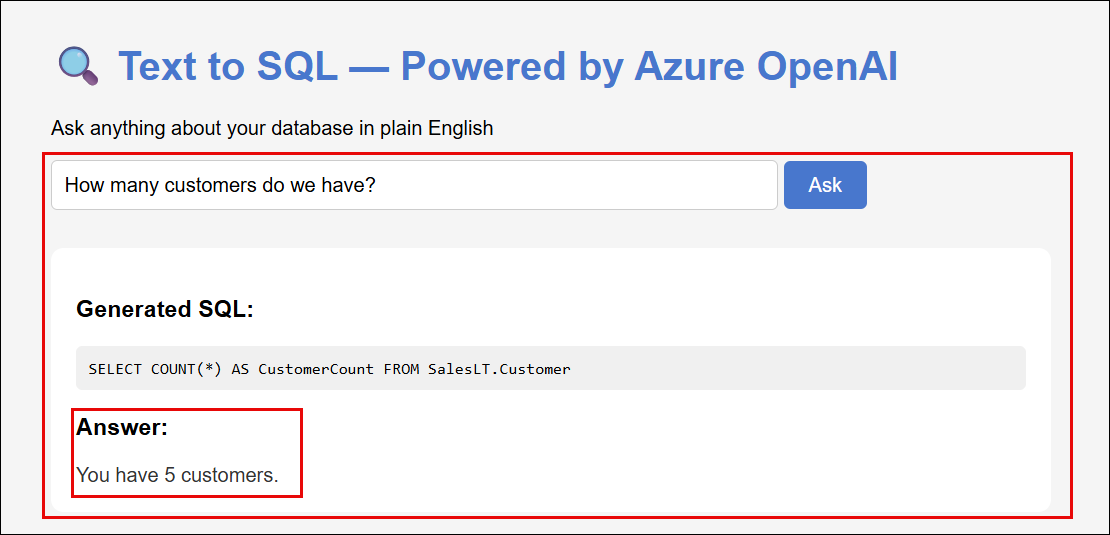
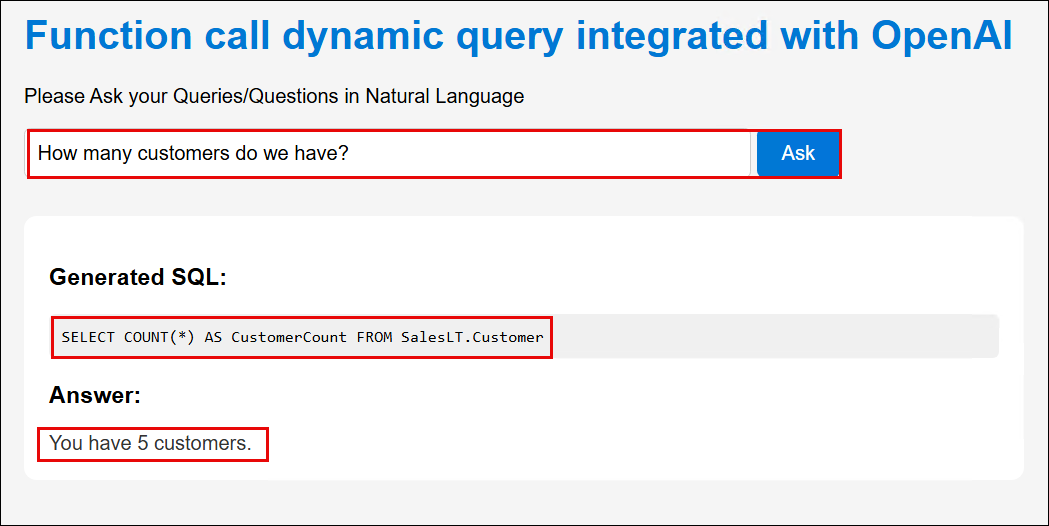
messgae

Changed region(s): [[0.0, 0.0304, 0.9762, 0.9734]]

diff --git a/Lab4.md b/Lab4.md
@@ -24,8 +24,8 @@ Create a dedicated folder on your local machine and save all the application fil
 1. Open **VS Code** on your local machine, then create a new folder from the terminal and navigate into it:
 
    ```
-   C:\Users\YourName\> mkdir textsql-app
-   C:\Users\YourName\> cd textsql-app
+   mkdir textsql-app
+   cd textsql-app
    ```
 
 2. Inside that folder, create the following 3 files using VS Code or Notepad:
@@ -53,11 +53,17 @@ textsql-app/
 ```
 
 ![](./Media/Lab4/image1.png)
+---
+## Task3: Build the Application Code in `main.py`
 
-#### File 1: `main.py`
-
-The core application file. It includes the FastAPI web server, an Azure SQL connection using Managed Identity, the OpenAI integration for generating SQL queries, and the HTML chat interface served to users. Copy and paste the following code into `main.py`:
-
+**1: Import Required Libraries**
+ 
+First, let's import all the necessary Python libraries and modules.
+ 
+1. Open your code editor and create a new file named `main.py`
+ 
+2. Copy and paste the following code into `main.py`:
+ 
 ```python
 import os
 import struct
@@ -68,9 +74,33 @@ from dotenv import load_dotenv
 from fastapi import FastAPI
 from fastapi.responses import HTMLResponse
 from pydantic import BaseModel
-
+ 
 load_dotenv()
-
+```
+![](./Media/Lab4/code1.png)
+ 
+**Explanation:**
+ 
+- **os**: For accessing environment variables
+- **struct**: For packing authentication tokens into binary format
+- **pyodbc**: For connecting to Azure SQL Database
+- **AzureOpenAI**: Client library for Azure OpenAI Service
+- **AzureCliCredential, ManagedIdentityCredential**: For Azure authentication (local development vs Azure deployment)
+- **dotenv**: For loading environment variables from `.env` file
+- **FastAPI**: Web framework for building the API
+- **HTMLResponse**: For serving HTML content
+- **BaseModel**: For request validation
+- **load_dotenv()**: Loads environment variables from `.env` file
+ 
+---
+ 
+**2: Initialize Azure OpenAI Client and Configuration**
+ 
+ Next, set up the Azure OpenAI client and load configuration values.
+ 
+1. Paste this code Below the import section:
+ 
+```python
 # ── OpenAI Client ──────────────────────────────────────────────────
 client = AzureOpenAI(
     api_key=os.getenv("OPENAI_API_KEY"),
@@ -80,20 +110,42 @@ client = AzureOpenAI(
 DEPLOYMENT_NAME = os.getenv("AZURE_OPENAI_CHAT_DEPLOYMENT")
 SQL_SERVER = os.getenv("SQL_SERVER")
 SQL_DATABASE = os.getenv("SQL_DATABASE")
-
+ 
 app = FastAPI()
-
+```
+![](./Media/Lab4/code2.png)
+ 
+**Explanation:**
+ 
+- **client**: Creates an Azure OpenAI client using credentials from environment variables
+  - `api_key`: Your Azure OpenAI API key
+  - `api_version`: The API version to use
+  - `azure_endpoint`: Your Azure OpenAI endpoint URL
+- **DEPLOYMENT_NAME**: The name of your deployed GPT model
+- **SQL_SERVER**: Your Azure SQL Server hostname
+- **SQL_DATABASE**: Your database name
+- **app = FastAPI()**: Initializes the FastAPI application
+ 
+---
+ 
+**3: Create Database Connection Function**
+ 
+This function automatically detects whether the app is running locally or on Azure and uses the appropriate authentication method.
+ 
+1. Add the following code below the configuration section:
+ 
+```python
 # ── Connection: Auto-detect Local vs Azure ─────────────────────────
 def get_sql_connection():
     if os.getenv("WEBSITE_INSTANCE_ID"):  # On Azure → Managed Identity
         credential = ManagedIdentityCredential()
     else:  # Local → Azure CLI login
         credential = AzureCliCredential()
-
+ 
     token = credential.get_token("https://database.windows.net/.default")
     token_bytes = token.token.encode("utf-16-le")
     token_struct = struct.pack(f"<I{len(token_bytes)}s", len(token_bytes), token_bytes)
-
+ 
     conn_str = (
         "Driver={ODBC Driver 18 for SQL Server};"
         f"Server=tcp:{SQL_SERVER},1433;"
@@ -102,7 +154,27 @@ def get_sql_connection():
         "TrustServerCertificate=no;"
     )
     return pyodbc.connect(conn_str, attrs_before={1256: token_struct})
-
+```
+ ![](./Media/Lab4/code3.png)
+**Explanation:**
+ 
+- **Auto-detection**: Checks if `WEBSITE_INSTANCE_ID` exists (Azure App Service sets this)
+  - **Azure deployment**: Uses `ManagedIdentityCredential()` for passwordless authentication
+  - **Local development**: Uses `AzureCliCredential()` (requires `az login`)
+- **Token generation**: Gets an access token for Azure SQL Database
+- **Token encoding**: Converts token to binary format required by ODBC driver
+- **Connection string**: Builds the SQL connection string with encryption enabled
+- **Returns**: Active database connection with token-based authentication
+ 
+---
+ 
+**4: Create SQL Generation Function**
+ 
+This function converts natural language questions into SQL queries using Azure OpenAI.
+ 
+1. Add the following code below the database connection function:
+ 
+```python
 # ── Generate SQL from natural language ────────────────────────────
 def generate_sql(question):
     response = client.chat.completions.create(
@@ -111,12 +183,12 @@ def generate_sql(question):
             {
                 "role": "system",
                 "content": """You are an Azure SQL expert.
-
+ 
 Database Schema:
 - SalesLT.Customer(CustomerID, FirstName, LastName, EmailAddress, Phone, CompanyName)
 - SalesLT.Product(ProductID, Name, ProductNumber, Color, StandardCost, ListPrice, Size, Weight)
 - SalesLT.SalesOrderDetail(SalesOrderID, SalesOrderDetailID, OrderQty, ProductID, UnitPrice, LineTotal)
-
+ 
 Rules:
 - ONLY generate SELECT queries
 - ALWAYS use full table names like SalesLT.Product
@@ -130,7 +202,29 @@ Rules:
     sql = response.choices[0].message.content.strip()
     sql = sql.replace("```sql", "").replace("```", "").strip()
     return sql
-
+```
+![](./Media/Lab4/code4.png)
+ 
+**Explanation:**
+ 
+- **client.chat.completions.create()**: Calls Azure OpenAI to generate SQL
+- **System message**: Provides the AI with:
+  - Database schema (table names and columns)
+  - Rules for generating SQL (Azure SQL syntax, security constraints)
+  - Instructions to return only raw SQL
+- **User message**: Contains the natural language question
+- **Post-processing**: Removes markdown formatting (backticks, code blocks)
+- **Returns**: Clean SQL query ready for execution
+ 
+---
+ 
+**5: Create SQL Execution Function**
+ 
+This function executes the generated SQL query against Azure SQL Database.
+ 
+1. Add the following code below the SQL generation function:
+ 
+```python
 # ── Execute SQL against Azure SQL Database ────────────────────────
 def execute_sql(sql):
     try:
@@ -142,7 +236,27 @@ def execute_sql(sql):
         return [dict(zip(columns, row)) for row in rows]
     except Exception as e:
         return f"SQL Error: {e}"
-
+```
+ ![](./Media/Lab4/code5.png)
+**Explanation:**
+ 
+- **get_sql_connection()**: Establishes connection to Azure SQL Database
+- **cursor.execute(sql)**: Runs the generated SQL query
+- **columns**: Extracts column names from query results
+- **rows**: Fetches all result rows
+- **Return format**: Converts results to list of dictionaries (JSON-friendly format)
+  - Example: `[{"ProductID": 1, "Name": "Helmet"}, {"ProductID": 2, "Name": "Bike"}]`
+- **Error handling**: Returns error message if SQL execution fails
+ 
+---
+ 
+**6: Create Natural Language Answer Function**
+ 
+This function converts database results into human-readable answers.
+ 
+1. Add the following code below the SQL execution function:
+ 
+```python
 # ── Format results as natural language ────────────────────────────
 def generate_answer(question, data):
     response = client.chat.completions.create(
@@ -159,7 +273,27 @@ def generate_answer(question, data):
         ]
     )
     return response.choices[0].message.content
-
+```
+ ![](./Media/Lab4/code6.png)
+**Explanation:**
+ 
+- **Purpose**: Converts raw database results into natural, conversational answers
+- **System message**: Instructs AI to act as a business assistant, not a database expert
+- **User message**: Provides both the original question and the data
+- **Example transformation**:
+  - Input: `[{"ProductID": 1, "Name": "Helmet", "ListPrice": 34.99}]`
+  - Output: "The helmet is priced at $34.99"
+- **Returns**: Natural language answer that non-technical users can understand
+ 
+---
+ 
+**7: Create Web Interface (Home Page)**
+ 
+This code creates the HTML user interface that users will interact with.
+ 
+1. Add the following code below the answer generation function:
+ 
+```python
 # ── Chat UI served at root URL ────────────────────────────────────
 @app.get("/", response_class=HTMLResponse)
 async def home():
@@ -181,8 +315,8 @@ async def home():
         </style>
     </head>
     <body>
-        <h1>🔍 Text to SQL — Powered by Azure OpenAI</h1>
-        <p>Ask anything about your database in plain English</p>
+        <h1> Function call dynamic query integrated with OpenAI </h1>
+        <p>Please Ask your Queries/Questions in Natural Language</p>
         <input type="text" id="question" placeholder="e.g. give me top 5 selling products" />
         <button onclick="ask()">Ask</button>
         <div id="result">
@@ -214,11 +348,36 @@ async def home():
     </body>
     </html>
     """
-
+```
+ ![](./Media/Lab4/code7.png)
+**Explanation:**
+ 
+- **@app.get("/")**: Serves HTML page at the root URL
+- **HTML Structure**:
+  - Input box for user questions
+  - "Ask" button to submit queries
+  - Results section (initially hidden)
+  - Displays both generated SQL and natural language answer
+- **CSS Styling**: Azure-themed blue colors, clean modern design
+- **JavaScript Functionality**:
+  - `ask()` function sends question to `/ask` API endpoint
+  - Displays "Thinking..." while waiting for response
+  - Updates page with SQL query and answer
+  - Enter key support for better UX
+ 
+---
+ 
+**8: Create API Endpoint**
+ 
+This is the backend API that processes user questions.
+ 
+1. Add the following code below the home page function:
+ 
+```python
 # ── API endpoint ──────────────────────────────────────────────────
 class AskRequest(BaseModel):
     question: str
-
+ 
 @app.post("/ask")
 async def ask(request: AskRequest):
     sql = generate_sql(request.question)
@@ -226,6 +385,7 @@ async def ask(request: AskRequest):
     answer = generate_answer(request.question, data)
     return { "question": request.question, "sql": sql, "answer": answer, "data": data }
 ```
+![](./Media/Lab4/code8.png)
 
 ![](./Media/Lab4/image2.png)
 
@@ -282,23 +442,35 @@ You will zip the application files and deploy them to Azure App Service using th
 
    ![](./Media/Lab4/image5.png)
 
-3. Open **Git Bash** in your VS Code terminal and deploy using Azure CLI:
-
-   ```bash
-   az webapp deploy \
-     --resource-group textsql-rg \
-     --name textsql-webapp \
-     --src-path app.zip \
-     --type zip
+3. Before deploying to Azure, you need to authenticate your Azure CLI session. Run the following command and follow the instructions to log in go to https://login.microsoft.com/device and enter the provided code.
    ```
+   az login --use-device-code
+   ```
+   ![](./Media/Lab4/image15.png)
+   Come back to the terminal after successful login and select Your subscription:
 
-4. Restart the App Service to apply the new code:
+4. Open **PowerShell** in your VS Code terminal and deploy using Azure CLI:
 
-   ```bash
-   az webapp restart \
-     --resource-group textsql-rg \
+```powershell
+   az webapp deploy `
+     --resource-group textsql-rg `
+     --name textsql-webapp `
+     --src-path app.zip `
+     --type zip `
+     --timeout 1800
+```
+
+   ![](./Media/Lab4/image14.png)
+
+   > **Verify:** Deployment command completes successfully with no errors.
+
+5. Restart the App Service to apply the new code:
+
+```powershell
+   az webapp restart `
+     --resource-group textsql-rg `
      --name textsql-webapp
-   ```
+```
 
    > **Verify:** Deployment shows `"complete": true` and `"status": 4`.
 
@@ -306,22 +478,16 @@ You will zip the application files and deploy them to Azure App Service using th
 
 After deploying, watch the live application logs to confirm the startup script runs successfully, packages are installed, and the web server starts without errors.
 
-1. In Git Bash, run the live log streaming command:
+1. In **PowerShell**, run the live log streaming command:
 
-   ```bash
-   az webapp log tail \
-     --resource-group textsql-rg \
+```powershell
+   az webapp log tail `
+     --resource-group textsql-rg `
      --name textsql-webapp
-   ```
+```
 
 2. Wait and watch for the following lines in the output:
 
-   ```
-   Installing Python packages...
-   Packages installed. Starting app...
-   Application startup complete.
-   Uvicorn running on http://0.0.0.0:8000
-   ```
 
 3. If you see errors, refer to the table below for common fixes:
 
@@ -369,7 +535,10 @@ With the application running, open the web interface and test it by asking natur
    | `Which customer placed the most orders?` | Returns customer name from SalesOrderDetail |
    | `What is the most expensive product?` | Returns Mountain Bike Pro at $1099.99 |
 
-   ![](./Media/Lab4/image10.png)
+---
+![](./Media/Lab4/image10.png)
+---
+
 
    > **Verify:** App returns real data from your Azure SQL Database for all test questions.
 
